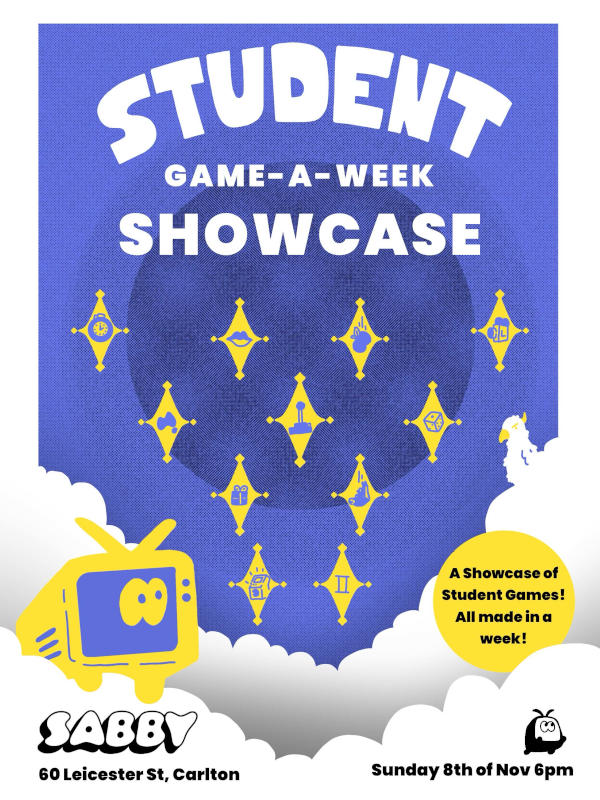
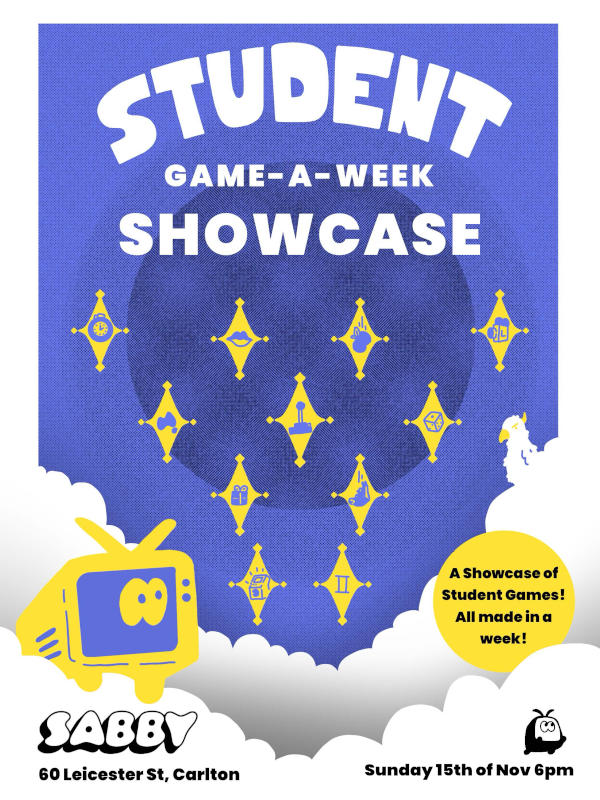
Event game a week student showcase poster with fixed date

diff --git a/src/events/2026/11-game-a-week.md b/src/events/2026/11-game-a-week.md
@@ -1,7 +1,7 @@
 ---
 title: RMIT Student Game-A-Week Showcase 2026
 date: 2026-11-15T18:00:00+11:00
-time: 6PM to 9PM
+time: 6PM to 10PM
 tags: [game-a-week]
 poster: GAW-Student-Nov2026.jpg
 tickets: https://events.humanitix.com/rmit-gaw-showcase
